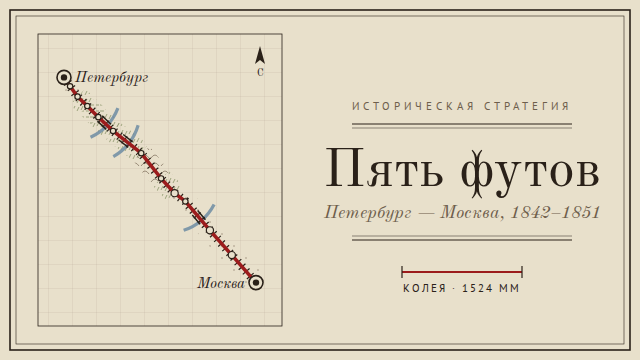
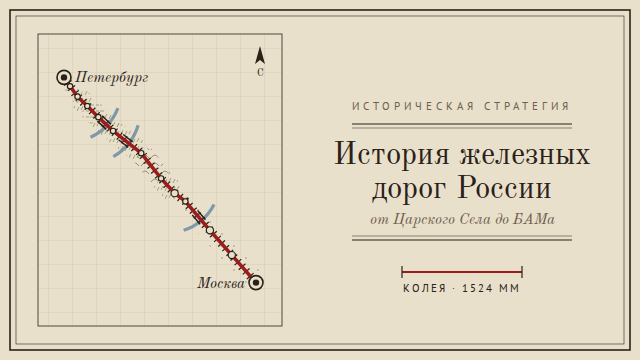
feat: игра «Пять футов» переименована в «История железных дорог России»
Новое название в мини-аппе (заголовок, вкладка, подзаголовок), в сообщениях
бота (/koleya, /help, /games, уведомления о главах), в документации и на
обложке 640×360. Название факта о колее «Пять футов» и реплики о пятифутовой
колее — часть истории и остались как есть.

Claude-Session: https://claude.ai/code/session_016Az35sQcUKZjVG44pqUwHA

Changed region(s): [[0.5, 0.3972, 0.9375, 0.6417]]

diff --git a/src/handlers/commands.js b/src/handlers/commands.js
@@ -165,7 +165,7 @@ function buildHelp() {
     '/leaderboard — топ викторины в этом чате',
     '/sec — Сечение, игра на глазомер. /sec top — топ чата. /sec remind 20:00 — ежедневный автопост топа',
     '/contour — Контур: угадай страну по очертанию или проведи границу между соседями',
-    '/koleya — «Пять футов»: историческая стратегия о строительстве железной дороги Петербург — Москва',
+    '/koleya — «История железных дорог России»: историческая стратегия от Царскосельской дороги до БАМа и скоростных магистралей',
     '/games — одно сообщение обо всех играх: что за игра, как открыть, в чём смысл',
     '/article <тема> — написать статью на заданную тему (можно "в стиле: научпоп")',
     '/transcribe on|off — авто-расшифровка голосовых в чат (только админ чата)',
@@ -494,8 +494,8 @@ async function handleGames(bot, msg) {
     '🗺 Контур — /contour',
     'География на глаз. «Страна»: угадай страну по очертанию границ, 30 секунд на каждую. «Граница»: две соседние страны без общей линии — проведи её пальцем как можно ближе к настоящей. Лучшие результаты — в топ чата внутри приложения.',
     '',
-    '🚂 Пять футов — /koleya',
-    'Одиночная историческая стратегия: вы главный инженер дороги Петербург — Москва. Трасса, колея, артели, мосты и сроки; в конце — первый поезд, «как было на самом деле» и викторина.',
+    '🚂 История железных дорог России — /koleya',
+    'Одиночная историческая стратегия: вы главный инженер великих строек — Царскосельская дорога, Петербург — Москва, Транссиб, БАМ и первая советская ВСМ. Трасса, колея, бригады, мосты и сроки; в конце главы — первый поезд, «как было на самом деле» и викторина.',
     '',
     'Про любой топ можно спросить и меня: кто лидер, кто самый умный, у кого лучший глазомер.',
   ].join('\n');

diff --git a/koleya/core/index.js b/koleya/core/index.js
@@ -384,7 +384,7 @@ function createKoleya(deps) {
     if (state.outcome === 'halted') {
       // Глава, которую нельзя пройти: засчитывается как завершённая, без звёзд
       await upsertPlayer(tgId, name, { completed: { [chapter]: { stars: null, max: null, halted: true } } });
-      await notify(tgId, `🛑 «Пять футов»: ${ch.map.title} — стройку остановили, как и в истории. В игре ждёт викторина.`, { button: 'open_game' }).catch(() => {});
+      await notify(tgId, `🛑 «История железных дорог России»: ${ch.map.title} — стройку остановили, как и в истории. В игре ждёт викторина.`, { button: 'open_game' }).catch(() => {});
     } else if (state.outcome === 'won') {
       await upsertPlayer(tgId, name, {
         completed: { [chapter]: { stars: state.score?.total ?? null, max: state.score?.max ?? null } },
@@ -393,10 +393,10 @@ function createKoleya(deps) {
           : chapter === 'prologue' ? undefined : { [`${chapter}Route`]: state.routeVariant },
       });
       const stars = state.score ? ` · звёзд ${state.score.total} из ${state.score.max}` : '';
-      await notify(tgId, `🚂 «Пять футов»: ${ch.map.title} — глава пройдена${stars}. В игре ждёт викторина.`, { button: 'open_game' }).catch(() => {});
+      await notify(tgId, `🚂 «История железных дорог России»: ${ch.map.title} — глава пройдена${stars}. В игре ждёт викторина.`, { button: 'open_game' }).catch(() => {});
     } else {
       const why = state.outcome === 'removed' ? 'благоволение исчерпано, вас отстранили' : 'сроки вышли';
-      await notify(tgId, `📜 «Пять футов»: ${ch.map.title} — ${why}. Главу можно начать заново.`, { button: 'open_game' }).catch(() => {});
+      await notify(tgId, `📜 «История железных дорог России»: ${ch.map.title} — ${why}. Главу можно начать заново.`, { button: 'open_game' }).catch(() => {});
     }
   }
 

diff --git a/koleya/miniapp/index.html b/koleya/miniapp/index.html
@@ -3,7 +3,7 @@
 <head>
   <meta charset="UTF-8">
   <meta name="viewport" content="width=device-width, initial-scale=1, maximum-scale=1, user-scalable=no, viewport-fit=cover">
-  <title>Пять футов</title>
+  <title>История железных дорог России</title>
   <script src="https://telegram.org/js/telegram-web-app.js"></script>
   <link rel="preconnect" href="https://fonts.googleapis.com">
   <link rel="preconnect" href="https://fonts.gstatic.com" crossorigin>
@@ -20,8 +20,8 @@
       <div class="title-vignette" id="title-vignette"></div>
       <div class="title-rule"></div>
       <div class="title-kicker">историческая стратегия</div>
-      <h1 class="title-main">Пять футов</h1>
-      <div class="title-sub">о постройке железных дорог России — от Царского Села до БАМа</div>
+      <h1 class="title-main">История железных дорог России</h1>
+      <div class="title-sub">от Царского Села до БАМа и скоростных магистралей</div>
       <div class="orn" aria-hidden="true"><span>❦</span></div>
     </div>
     <div class="chapters" id="chapters"></div>

diff --git a/koleya/billy-plugin.js b/koleya/billy-plugin.js
@@ -62,9 +62,9 @@ async function handleCommand(bot, msg) {
   const isPrivate = msg.chat.type === 'private';
   const progress = msg.from ? await getCore().progressText(msg.from.id) : null;
   const lines = [
-    '🚂 «Пять футов» — историческая стратегия о первых русских железных дорогах.',
+    '🚂 «История железных дорог России» — историческая стратегия о великих стройках.',
     'Вы — главный инженер: трасса, колея, артели, мосты и сроки. Ход — один сезон. В конце главы — «как было на самом деле» и викторина.',
-    'Пролог: Царскосельская дорога (1836–1838). Глава I: Петербург — Москва (1842–1851).',
+    'Пролог: Царскосельская дорога (1836). Главы: Петербург — Москва, Великий Сибирский путь, БАМ, ВСМ «Центр — Юг».',
   ];
   if (progress) lines.push('', `Ваша игра: ${progress}`);
   const btn = openButton(isPrivate);

diff --git a/src/webapp/server.js b/src/webapp/server.js
@@ -16,7 +16,7 @@ function setBot(bot) {
   botRef = bot;
   // Эрудит: приглашения на турнир и итоги бот постит в чат
   arena.setBot(bot);
-  // «Пять футов» (Koleya): уведомления игрокам
+  // «История железных дорог России» (Koleya): уведомления игрокам
   koleya.setBot(bot);
 }
 
@@ -354,7 +354,7 @@ function start() {
     }
   });
 
-  // «Пять футов» (Koleya): мини-апп /koleya/ и API /koleya/api/*
+  // «История железных дорог России» (Koleya): мини-апп /koleya/ и API /koleya/api/*
   koleya.mount(app);
 
   app.use((req, res) => res.status(404).json({ error: 'not_found' }));

diff --git a/koleya/miniapp/style.css b/koleya/miniapp/style.css
@@ -82,7 +82,7 @@ button { font-family: inherit; color: inherit; }
   text-transform: uppercase;
   color: var(--ink-faded);
 }
-.title-main { font-family: var(--font-display); font-weight: 400; font-size: 44px; line-height: 1.05; margin: 8px 0 6px; }
+.title-main { font-family: var(--font-display); font-weight: 400; font-size: 34px; line-height: 1.1; margin: 8px 0 6px; text-wrap: balance; }
 .title-sub { font-family: var(--font-display); font-style: italic; color: var(--ink-faded); margin-bottom: 16px; }
 .chapters { display: flex; flex-direction: column; gap: 12px; }
 .chapter-card {

diff --git a/koleya/README.md b/koleya/README.md
@@ -1,4 +1,4 @@
-# Koleya — «Пять футов»
+# Koleya — «История железных дорог России»
 
 Историческая железнодорожная стратегия о строительстве дорог Российской империи и СССР.
 Telegram Mini App внутри бота «Билли», запуск командой `/koleya`. Бесплатный образовательно-познавательный проект, одиночная кампания: игрок принимает решения,

diff --git a/koleya/docs/GDD.md b/koleya/docs/GDD.md
@@ -1,4 +1,4 @@
-# Геймдизайн MVP «Пять футов» (репозиторий Koleya)
+# Геймдизайн MVP «История железных дорог России» (репозиторий Koleya, раньше — «Пять футов»)
 
 Видение и открытые вопросы ведутся в Claude Doc «Пять футов — дизайн-документ, глава I». Этот файл — рабочая версия для разработки; при расхождении решают ответы из дока.
 

diff --git a/koleya/CLAUDE.md b/koleya/CLAUDE.md
@@ -1,4 +1,4 @@
-# CLAUDE.md — правила проекта Koleya («Пять футов»)
+# CLAUDE.md — правила проекта Koleya («История железных дорог России»)
 
 Читай этот файл целиком перед любой задачей. Потом `docs/ROADMAP.md`, чтобы понять текущий этап.
 
